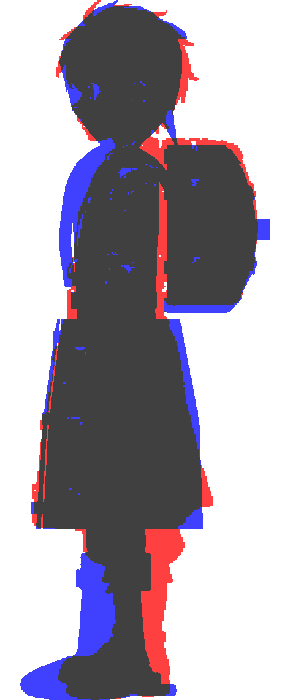
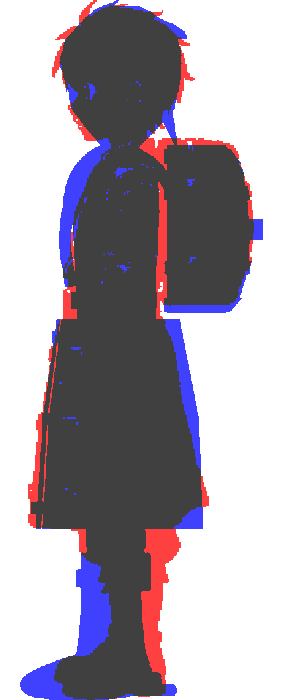
背負い樽のふくらみを詰め、シルエットを再生成する
側面の照合で樽の張り出しが高さ26/34/42%で -3/+10/+2mm。中央だけ
10mm残るが、側面の照合は外接箱の中心で横を合わせているだけで固定の
基準点が無く、この程度は物差しの不確かさの内(正面の顔一致QAのような
基準点を側面にも用意するのが次の課題)。

コミット済みのシルエットPNGが詰める前のものだったので再生成した。

Claude-Session: https://claude.ai/code/session_01PERsWFHQ12GzWFytKu9QWp

diff --git a/tools/models/garudo.py b/tools/models/garudo.py
@@ -414,7 +414,8 @@ def _shade(color, f: float):
 APRON_HOOP_Z = (0.265, 0.390, 0.505)
 
 # 背負い樽。**軸は縦**(設定画の背面図・側面図の実測)。
-# 断面は楕円で、背面図で幅220mm・側面図で奥行き130mm。前面(y小)を
+# 断面は楕円で、背面図で幅220mm・側面図で奥行き130mm(照合して120mmへ)。
+# 前面(y小)を
 # 背中へ付けたいので、リングの中心cyは奥行きに合わせて動かす
 BARREL_FRONT_Y = 0.070          # 樽の前面(融合ボディの背中の外)
 BARREL_RINGS = (
@@ -1227,7 +1228,7 @@ def build() -> tuple[list, object]:
     # 走る・背面図は円い鏡板」と読んでいたが、拡大して見直すと側面図も
     # 背面図も「板が縦・たがが横・中央がふくらむ」縦置きの樽で、背面に
     # あるのは鏡板ではなく**栓(飲み口)**だった。
-    # 断面は楕円(幅220mm×奥行き130mm)。背中へ密着させるため前面のyを
+    # 断面は楕円(幅220mm×奥行き120mm)。背中へ密着させるため前面のyを
     # 固定し、奥行きに合わせて中心を後ろへずらす
     barrel = C.loft("garudo_barrel",
                     [(z, rx, ry, 0.0, BARREL_FRONT_Y + ry)

diff --git a/plan/models/garudo-face-qa.md b/plan/models/garudo-face-qa.md
@@ -917,11 +917,14 @@ x194〜441。手首の高さで「設定画の幅=切り出し幅」になり、
 
 | 高さ% | 部位 | 設定画(背面側) | モデル | 差 |
 |---|---|---|---|---|
-| 26 | 肩/樽上端 | +105 | +110 | +5 |
-| 34 | 胸+樽 | +111 | +119 | +8 |
-| 42 | 背中+樽 | +97 | +91 | -6 |
+| 26 | 肩/樽上端 | +105 | +102 | -3 |
+| 34 | 胸+樽 | +111 | +121 | +10 |
+| 42 | 背中+樽 | +97 | +99 | +2 |
 
-樽の張り出しは±8mm以内。頭・顔の奥行き・エプロンも±10mm以内で並ぶ。
+樽の張り出しは -3/+10/+2mm。中央のふくらみだけ10mm残るが、側面の
+照合は外接箱の中心で横を合わせているだけで基準点が無く、この程度は
+物差しの不確かさの内。**正面の顔一致QAのような固定の基準点が要る**
+(側面の位置合わせは次の課題)。頭・顔の奥行き・エプロンは±10mm以内。
 
 ## 残っている課題(次の段階)
 
